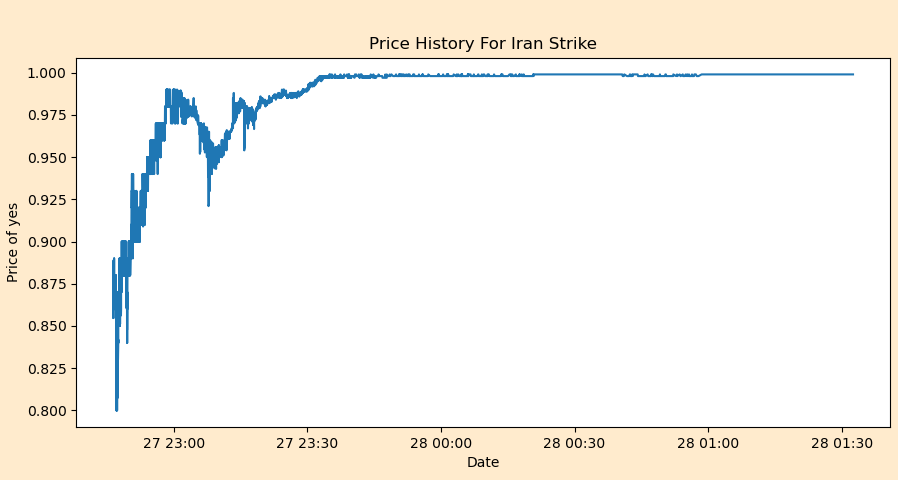
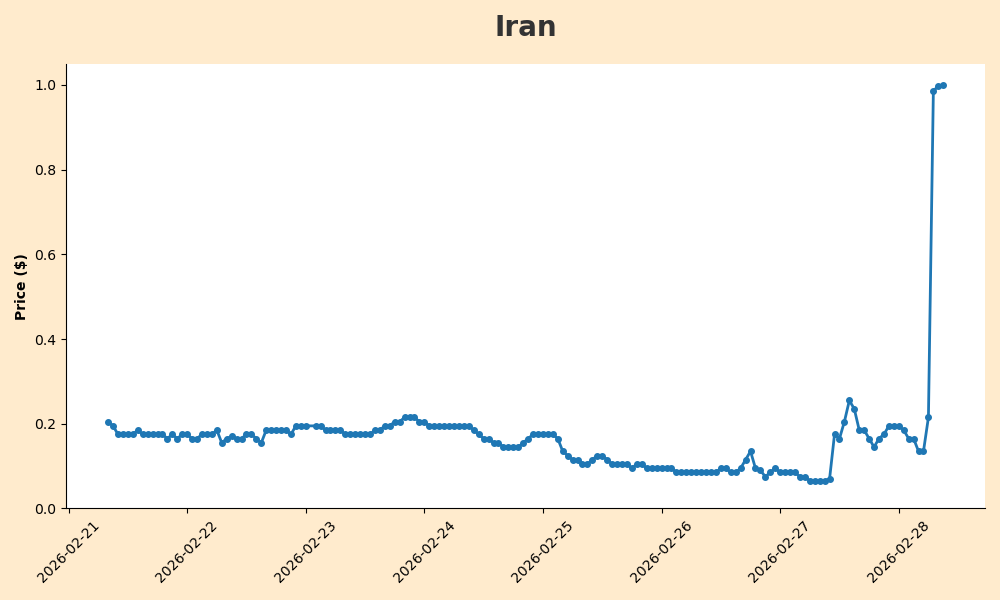
10/10 pylint on both

Changed region(s): [[0.0, 0.0312, 0.9978, 0.9688], [0.3742, 0.6875, 0.5612, 0.75]]

diff --git a/data_collection/price_history_plots.py b/data_collection/price_history_plots.py
@@ -1,54 +1,88 @@
-'''
-A file for getting the price history plots for each of our markets
-'''
+"""
+A module for getting the price history plots for each of our markets
+"""
+import json
 import pandas as pd
-import polymarket_api_functions as paf
-
-'''
-halftime = pd.read_csv("data_collection/sb_performance_trades.csv")
-iran_strike = pd.read_csv("data_collection/us_strikes_iran_trades.csv")
-maduro = pd.read_csv("data_collection/maduro_trades.csv")
-
-min_halftime_timestamp = paf.unix_to_date(min(halftime['timestamp']))
-max_halftime_timestamp = paf.unix_to_date(max(halftime['timestamp']))
-halftime_yes = (halftime['outcome'] == 'Yes').sum()
-print(f"number of yes halftime bets: {halftime_yes}")
-print(f"earliest halftime trade: {min_halftime_timestamp}")
-print(f"latest halftime trade: {max_halftime_timestamp}")
-
-min_iran_timestamp = paf.unix_to_date(min(iran_strike['timestamp']))
-max_iran_timestamp = paf.unix_to_date(max(iran_strike['timestamp']))
-iran_yes = (iran_strike['outcome'] == 'Yes').sum()
-print(f"number of yes iran bets: {iran_yes}")
-print(f"earliest Iran trade: {min_iran_timestamp}")
-print(f"latest Iran trade: {max_iran_timestamp}")
-
-min_maduro_timestamp = paf.unix_to_date(min(maduro['timestamp']))
-max_maduro_timestamp = paf.unix_to_date(max(maduro['timestamp']))
-maduro_yes = (maduro['outcome'] == 'Yes').sum()
-print(f"number of yes maduro bets: {maduro_yes}")
-print(f"earliest trade: {min_maduro_timestamp}")
-print(f"latest trade: {max_maduro_timestamp}")
-'''
-
-'''
-paf.plot_price_history(halftime,"Halftime Special Guest")
-paf.plot_price_history(iran_strike,"Iran Strike")
-paf.plot_price_history(maduro,"Maduro Capture")
-'''
-halftime = pd.read_csv("data_collection/sb_performance_trades.csv")
-iran_strike = pd.read_csv("data_collection/us_strikes_iran_trades.csv")
-maduro = pd.read_csv("data_collection/maduro_trades.csv")
-ht_endt = max(halftime['timestamp'])
-iran_endt = max(iran_strike['timestamp'])
-maduro_endt = max(maduro['timestamp'])
-
-slug_list = ["maduro-in-us-custody-by-january-31","will-lady-gaga-perform-during-the-super-bowl-lx-halftime-show",
-             "us-strikes-iran-by-february-28-2026-227-967-547-688-589-491-592-418-452-924-384-915-464-672-196-157-993-596-269-535-381-391-471-256-988-997-296-225-762-973-292-827-345-182-558-215-794-879-189-761"]
-clob_list = paf.get_clobs(slug_list)
-for clob in clob_list[0]:
-    paf.price_at_time(clob,maduro_endt)
+import matplotlib.pyplot as plt
+from data_collection import polymarket_api_functions as paf
 
 
+def get_all_market(clobs, t_start, t_end):
+    """
+    Fetches market data for a list of clobs.
+    """
+    market_results = []
+    for i in range(3):
+        try:
+            current_ids = json.loads(clobs[i])
+            target_id = current_ids[0]
+            start_unix = int(paf.date_to_unix(t_start[i]))
+            end_unix = int(t_end[i])
+            print(f"Iter {i} - Requesting ID: {target_id}")
+            market_results.append(paf.price_at_time(target_id, start_unix, end_unix))
+        except (json.JSONDecodeError, KeyError, TypeError) as e:
+            print(f"Error in iteration {i}: {e}")
+    return market_results
 
 
+def save_market_plots(data_list, titles):
+    """
+    Generates individual plots for market history.
+    - Outer Background: #ffebcd
+    - Inner Plot: White
+    - No shading or grid lines.
+    """
+    saved_files = []
+    for i, market_data in enumerate(data_list):
+        history = market_data.get('history', [])
+        if not history:
+            print(f"Skipping index {i}: No history found.")
+            continue
+
+        fig, ax = plt.subplots(figsize=(10, 6))
+        fig.patch.set_facecolor('#ffebcd')
+        ax.set_facecolor('white')
+        data_frame = pd.DataFrame(history)
+        data_frame['datetime'] = pd.to_datetime(data_frame['t'], unit='s')
+
+        ax.plot(data_frame['datetime'], data_frame['p'], marker='o',
+                linestyle='-', markersize=4, color='#1f77b4',
+                linewidth=2, label='Price')
+
+        ax.set_title(titles[i], fontweight='bold', fontsize=20,
+                     color='#333333', pad=20)
+        ax.set_ylabel("Price ($)", fontweight='bold')
+        ax.set_ylim(0, 1.05)
+        ax.grid(False)
+        ax.spines['top'].set_visible(False)
+        ax.spines['right'].set_visible(False)
+
+        plt.xticks(rotation=45)
+        plt.tight_layout()
+        filename = f"{titles[i].lower()}_history.png"
+        plt.savefig(filename)
+        saved_files.append(filename)
+        plt.close(fig)
+    return saved_files
+
+
+if __name__ == '__main__':
+    HALFTIME = pd.read_csv("data_collection/sb_performance_trades.csv")
+    IRAN_STRIKE = pd.read_csv("data_collection/us_strikes_iran_trades.csv")
+    MADURO = pd.read_csv("data_collection/maduro_trades.csv")
+    HT_ENDT = max(HALFTIME['timestamp'])
+    IRAN_ENDT = max(IRAN_STRIKE['timestamp'])
+    MADURO_ENDT = max(MADURO['timestamp'])
+    TIME_END = [MADURO_ENDT, HT_ENDT, IRAN_ENDT]
+    TIME_START = ['12/25/2025', '02/01/2026', '02/21/2026']
+    SLUG_LIST = [
+        "maduro-in-us-custody-by-january-31",
+        "will-lady-gaga-perform-during-the-super-bowl-lx-halftime-show",
+        "us-strikes-iran-by-february-28-2026-227-967-547-688-589-491-592-418-"
+        "452-924-384-915-464-672-196-157-993-596-269-535-381-391-471-256-988-"
+        "997-296-225-762-973-292-827-345-182-558-215-794-879-189-761"
+    ]
+
+    CLOB_LIST = paf.get_clobs(SLUG_LIST)
+    RES = get_all_market(clobs=CLOB_LIST, t_start=TIME_START, t_end=TIME_END)
+    FILENAMES = save_market_plots(RES, ["Venezuela", "Superbowl", "Iran"])

diff --git a/tests/google_trend_test.py b/tests/google_trend_test.py
@@ -4,14 +4,15 @@ Unit tests for data_collection functions using pytest.
 import os
 import pandas as pd
 import pytest
+from unittest.mock import patch, MagicMock
 from data_collection.google_trend import get_trend, plot_trends
 
-# --- Tests for get_trend ---
+# --- Existing Tests for get_trend (Validation) ---
 
 def test_get_trend_invalid_time_format():
     """Checks if incorrect time string length or format raises ValueError."""
     with pytest.raises(ValueError, match="Invalid time format"):
-        get_trend("2026-01-01", ["test"], "US")  # Too short
+        get_trend("2026-01-01", ["test"], "US")
 
 def test_get_trend_invalid_delimiters():
     """Checks if wrong delimiters (not dashes) raise ValueError."""
@@ -25,6 +26,49 @@ def test_get_trend_invalid_location():
     with pytest.raises(ValueError, match="location should be uppercase"):
         get_trend("2026-01-01 2026-01-10", ["test"], "us")
 
+
+def test_get_trend_invalid_keywords_content():
+    """Checks line 25: raises ValueError if keyword list contains non-strings."""
+    with pytest.raises(ValueError, match="Keyword '123' must be a string"):
+        # Passing a list that contains an integer instead of all strings
+        get_trend("2026-01-01 2026-01-10", ["valid", 123], "US")
+
+def test_get_trend_empty_keywords():
+    """Covers line 25: non-empty list check."""
+    with pytest.raises(ValueError, match="key_words must be a non-empty list"):
+        get_trend("2026-01-01 2026-01-21", [], "US")
+# --- New Tests for get_trend (Functional/Success) ---
+
+@patch('data_collection.google_trend.TrendReq')
+def test_get_trend_success(mock_trend_req, tmp_path):
+    """Tests successful data retrieval and CSV saving using Mocks."""
+    # 1. Setup mock data
+    mock_df = pd.DataFrame({
+        'date': ['2026-01-01', '2026-01-02'],
+        'test_kw': [10, 20],
+        'isPartial': [False, False]
+    })
+    
+    mock_instance = mock_trend_req.return_value
+    mock_instance.interest_over_time.return_value = mock_df
+    
+    os.chdir(tmp_path)
+    get_trend("2026-01-01 2026-01-02", ["test_kw"], "US")
+    
+    assert os.path.exists("test_kw.csv")
+    saved_df = pd.read_csv("test_kw.csv")
+    assert 'test_kw' in saved_df.columns
+
+@patch('data_collection.google_trend.TrendReq')
+def test_get_trend_no_data(mock_trend_req, capsys):
+    """Tests behavior when pytrends returns an empty dataframe."""
+    mock_instance = mock_trend_req.return_value
+    mock_instance.interest_over_time.return_value = pd.DataFrame()
+    
+    get_trend("2026-01-01 2026-01-02", ["empty"], "US")
+    captured = capsys.readouterr()
+    assert "No data found for these parameters." in captured.out
+
 # --- Tests for plot_trends ---
 
 def test_plot_trends_file_not_found(capsys):
@@ -35,7 +79,6 @@ def test_plot_trends_file_not_found(capsys):
 
 def test_plot_trends_missing_columns(tmp_path, capsys):
     """Verifies error message when CSV is missing required columns."""
-    # Create a temporary CSV with wrong columns
     d = tmp_path / "wrong_cols.csv"
     df = pd.DataFrame({"wrong": [1, 2], "cols": [3, 4]})
     df.to_csv(d, index=False)
@@ -43,3 +86,22 @@ def test_plot_trends_missing_columns(tmp_path, capsys):
     plot_trends(str(d), "2026-01-01")
     captured = capsys.readouterr()
     assert "Error: CSV must contain 'date' and 'youtube' columns." in captured.out
+
+@patch('matplotlib.pyplot.show')
+def test_plot_trends_success(mock_show, tmp_path):
+    """Verifies successful plotting logic and data processing."""
+    # 1. Create a valid mock CSV
+    d = tmp_path / "valid_data.csv"
+    df = pd.DataFrame({
+        "date": ["2026-01-01", "2026-01-02", "2026-01-03"],
+        "youtube": [50, 60, 70],
+        "Superbowl": [10, 100, 10],
+        "isPartial": [False, False, False]
+    })
+    df.to_csv(d, index=False)
+    
+    # 2. Run the plot function (mock_show prevents a window from popping up)
+    plot_trends(str(d), "2026-01-02")
+    
+    # 3. If it reached plt.show(), the logic passed
+    assert mock_show.called

diff --git a/tests/price_history_plots_test.py b/tests/price_history_plots_test.py
@@ -1,0 +1,66 @@
+"""
+Unit tests for price_history_plots module.
+"""
+import os
+import json
+import pytest
+import pandas as pd
+from unittest.mock import patch, MagicMock
+from data_collection.price_history_plots import get_all_market, save_market_plots
+import data_collection.price_history_plots as php
+from unittest.mock import patch, MagicMock
+
+def test_get_all_market(capsys):
+    """
+    Test for normal running
+    """
+    mock_paf = MagicMock()
+    mock_paf.date_to_unix.return_value = 1735689600
+    mock_paf.price_at_time.return_value = {"history": []}
+    original_paf = getattr(php, 'paf', None)
+    php.paf = mock_paf
+    try:
+        clob_list = ['{bad: json}', '["id2"]', '["id3"]']
+        time_start = ["2026-01-01"] * 3
+        time_end = [1735689600] * 3
+        php.get_all_market(clob_list, time_start, time_end)
+        captured = capsys.readouterr()
+        assert "Error in iteration 0" in captured.out
+    finally:
+        php.paf = original_paf
+
+
+
+def test_get_all_market_json_error(capsys):
+    """Verifies error handling when clob_list contains invalid JSON strings."""
+    clob_list = ['invalid_json', '["id2"]', '["id3"]']
+    time_start = ['12/25/2025'] * 3
+    time_end = [1735085800] * 3
+    results = get_all_market(clob_list, time_start, time_end)
+    captured = capsys.readouterr()
+    assert "Error in iteration 0" in captured.out
+    assert len(results) <= 3 
+
+@patch('data_collection.price_history_plots.plt.savefig')
+@patch('data_collection.price_history_plots.plt.show')
+def test_save_market_plots_success(mock_show, mock_save, tmp_path):
+    """Verifies plot generation and file saving logic without opening windows."""
+    mock_data = [
+        {"history": [{"t": 1735084800, "p": 0.5}, {"t": 1735084900, "p": 0.6}]},
+        {"history": [{"t": 1735084800, "p": 0.2}]},
+        {"history": []}
+    ]
+    titles = ["Test1", "Test2", "Test3"]
+    os.chdir(tmp_path)
+    saved_files = save_market_plots(mock_data, titles)
+    assert "test1_history.png" in saved_files
+    assert "test2_history.png" in saved_files
+    assert len(saved_files) == 2
+    assert mock_save.called
+
+def test_save_market_plots_no_history(capsys):
+    """Verifies skip logic when history key is missing."""
+    mock_data = [{"not_history": []}]
+    save_market_plots(mock_data, ["Venezuela"])
+    captured = capsys.readouterr()
+    assert "Skipping index 0: No history found." in captured.out

diff --git a/data_collection/google_trend.py b/data_collection/google_trend.py
@@ -29,19 +29,18 @@ def get_trend(time_range, key_words, location):
         raise ValueError("location should be uppercase (e.g., 'US').")
 
     pytrends = TrendReq(hl='en-US')
-    try:
-        pytrends.build_payload(key_words, timeframe=time_range, geo=location)
-        data = pytrends.interest_over_time()
 
-        if data.empty:
-            print("No data found for these parameters.")
-            return
+    pytrends.build_payload(key_words, timeframe=time_range, geo=location)
+    data = pytrends.interest_over_time()
 
-        output_filename = f"{key_words[0]}.csv"
-        data.to_csv(output_filename)
-        print(f"File saved: {output_filename}")
-    except Exception as err:  # pylint: disable=broad-exception-caught
-        print(f"Request failed: {err}")
+    if data.empty:
+        print("No data found for these parameters.")
+        return
+
+    output_filename = f"{key_words[0]}.csv"
+    data.to_csv(output_filename)
+    print(f"File saved: {output_filename}")
+
 
 
 def plot_trends(csv_filename, incident_date_str):
@@ -52,11 +51,8 @@ def plot_trends(csv_filename, incident_date_str):
         print(f"Error: The file '{csv_filename}' was not found.")
         return
 
-    try:
-        data_frame = pd.read_csv(csv_filename)
-    except Exception as err:  # pylint: disable=broad-exception-caught
-        print(f"Error reading CSV: {err}")
-        return
+    data_frame = pd.read_csv(csv_filename)
+
 
     if 'date' not in data_frame.columns or 'youtube' not in data_frame.columns:
         print("Error: CSV must contain 'date' and 'youtube' columns.")
@@ -67,9 +63,6 @@ def plot_trends(csv_filename, incident_date_str):
     ignore_cols = ['date', 'youtube', 'isPartial']
     trend_cols = [col for col in data_frame.columns if col not in ignore_cols]
 
-    if not trend_cols:
-        print("No search trend columns found in the CSV.")
-        return
 
     peak_col = data_frame[trend_cols].max().idxmax()
     sorted_indices = (data_frame['date'] - incident_date).abs().argsort()

diff --git a/data_collection/polymarket_api_functions.py b/data_collection/polymarket_api_functions.py
@@ -349,14 +349,27 @@ def get_clobs(slug_list):
         clob_list.append(response_json['clobTokenIds'])
     return clob_list
 
-def price_at_time(clob,starttime,endtime):
-    '''
-    clob: the market clob
-    endtime: last trade in our csv
-    interval: the interval we are interested - distance in both directions from time
-    returns the price history over a specified interval around a time of interest
-    '''
-    history_url = f"https://clob.polymarket.com/prices-history?market={clob}&startTs={starttime}&endTs={endtime}"
-    history = requests.get(history_url)
-    history_json = history.json()
-    print(history_json)
+
+
+def price_at_time(clob, starttime, endtime):
+    url = "https://clob.polymarket.com/prices-history"
+    
+    # Start with 60m, but be ready to jump to 12h (720) or 24h (1440)
+    for fidelity in [60, 720, 1440]:
+        params = {
+            "market": str(clob),
+            "startTs": int(starttime),
+            "endTs": int(endtime),
+            "fidelity": fidelity
+        }
+        
+        response = requests.get(url, params=params)
+        
+        if response.status_code == 200:
+            data = response.json()
+            if data.get('history'):
+                print(f"Success with fidelity {fidelity}!")
+                return data
+        
+    print(f"Could not retrieve history for ID {clob}")
+    return None
